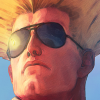
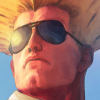
GG Xrd Rev addition and SFV change
Added Guilty Gear Revelator to the tier list maker and modified the
Guile portrait.

diff --git a/tier/index.html b/tier/index.html
@@ -83,6 +83,7 @@
 				<button id="switchPM">Project M</button>
 				<button id="switchSmash4">Super Smash Bros. 4</button>
 				<button id="switchSFV">Street Fighter V</button>
+				<button id="switchGGREV">Guilty Gear Xrd -Revelator-</button>
 				<p><strong>Changing your game will empty your tierlist!</strong> Do not click unless you are sure you want to change! You cannot undo this.</p>
 			</div>
 			<div id="helpMenu">
@@ -124,7 +125,8 @@
 		var gameBrawl = ["brawl","mario","luigi","peach","bowser","donkeykong","diddykong","yoshi","wario","link","zelda","sheik","ganondorf","toonlink","samus","zerosuitsamus","pit","iceclimbers","rob","kirby","metaknight","kingdedede","olimar","fox","falco","wolf","captainfalcon","pikachu","pokemontrainer","lucario","jigglypuff","marth","ike","ness","lucas","mrgamewatch","snake","sonic"];
 		var gamePM = ["pm","wario","mario","luigi","peach","bowser","yoshi","donkeykong","diddykong","falcon","wolf","fox","falco","icies","zelda","sheik","link","toonlink","ganon","mewtwo","lucario","pikachu","jigglypuff","squirtle","ivysaur","charizard","samus","zerosuit","lucas","ness","pit","kirby","metaknight","dedede","ike","marth","roy","olimar","rob","gnw","snake","sonic"];
 		var gameSFV = ["sfv","ryu","chunli","nash","mbison","cammy","birdie","ken","necalli","vega","rmika","rashid","karin","zangief","laura","dhalsim","fang","alex","guile"];
-
+		var gameGGREV = ["ggrev","axl","bedman","chipp","elphelt","faust","ino","jacko","jam","johnny","kum","ky","leo","may","millia","potemkin","ramlethal","raven","sin","slayer","sol","venom","zato1"];
+		
 		var singleTier = "<tr><td class='labelHolder' contenteditable='true' style='background-color:#FFFF7F'><span class='label'>NEW</span></td><td><div class='tier sort' id='rows'><div class='hiddenkid'></div></div></td><td><div id='settings'></div><div id='moveButtons'><div id='moveUp'></div><div id='moveDown'></div></div></td></tr>";
 		
 		var screenshotMode = false;
@@ -201,6 +203,7 @@
 				case "switchPM": changeGame(gamePM);break;
 				case "switchSmash4": changeGame(gameSmash4);break;
 				case "switchSFV": changeGame(gameSFV);break;
+				case "switchGGREV": changeGame(gameGGREV);break;
 			}
 		});
 			
@@ -277,6 +280,7 @@
 					case "pm": changeGame(gamePM);break;
 					case "ssb4": changeGame(gameSmash4);break;
 					case "sfv": changeGame(gameSFV);break;
+					case "ggrev": changeGame(gameGGREV);break;
 				}
 				loadCode(currentGameChars[0]+"==S|0==A|1==B|3==C|5==D|7==E|8==F|9");
 			}
@@ -375,6 +379,7 @@
 				case "pm": changeGame(gamePM);break;
 				case "ssb4": changeGame(gameSmash4);break;
 				case "sfv": changeGame(gameSFV);break;
+				case "ggrev": changeGame(gameGGREV);break;
 			}
 			for (var i = 1; i < processedCode.length; i++) {
 				$("tbody").append(singleTier);
